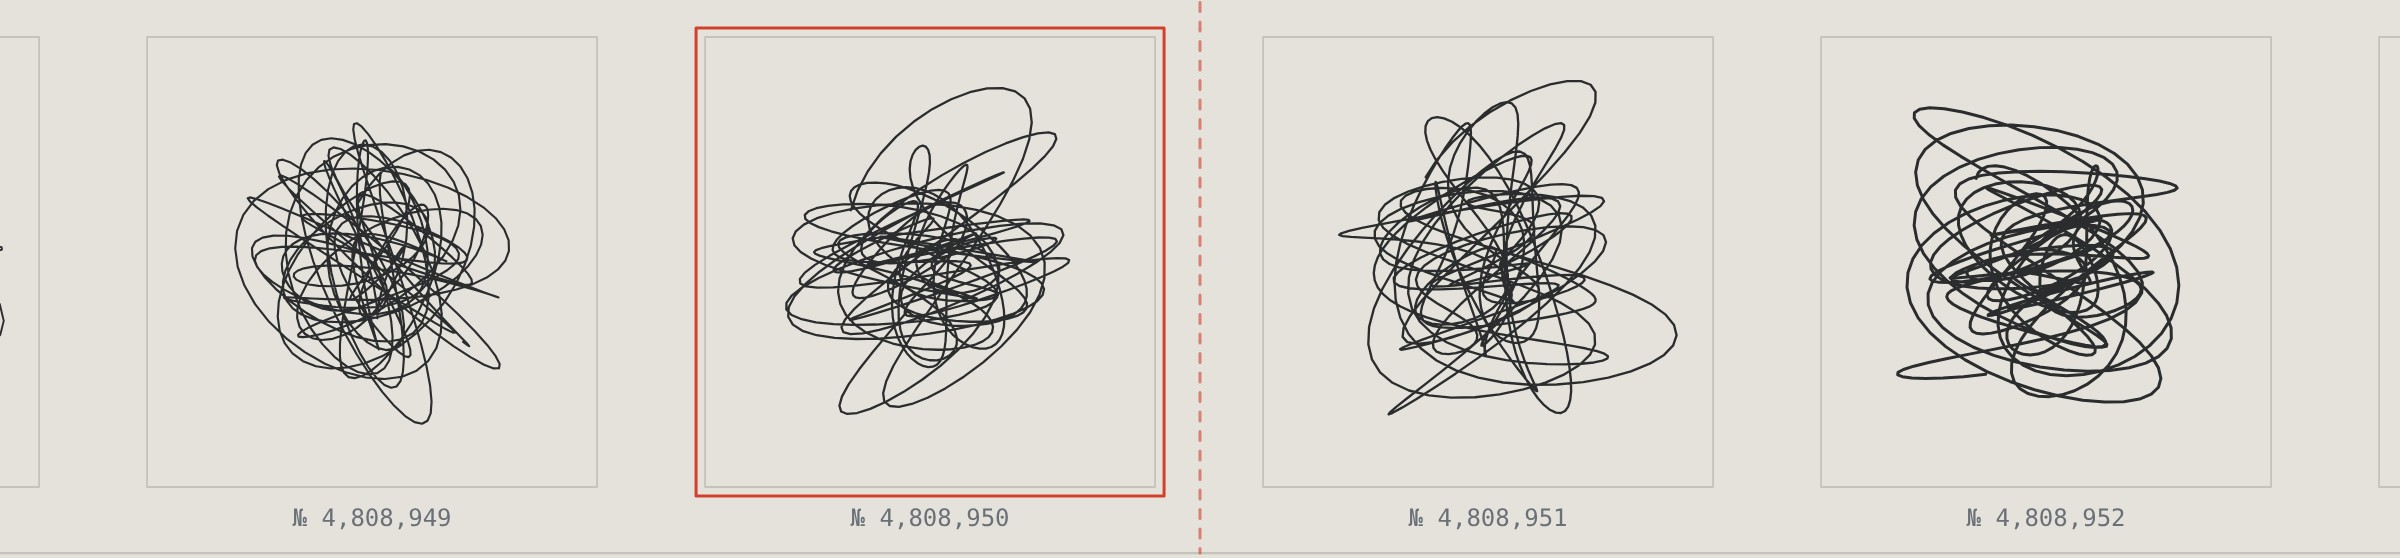
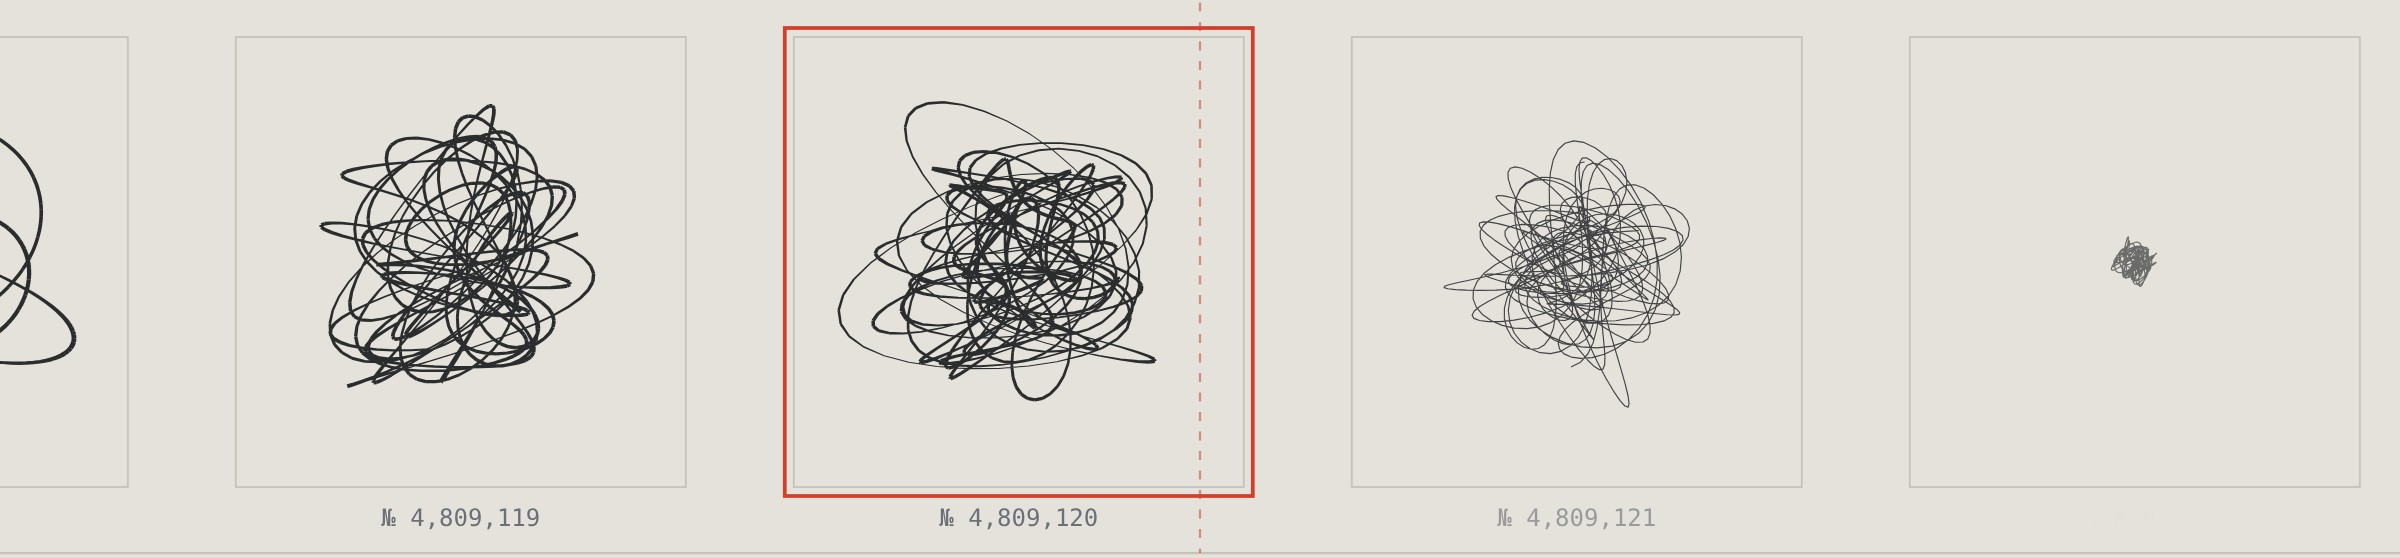
Port the future-diffusion visualization into the hero embed
Rebuilt static/meta-matic-hero.html on the live engine: generator v2 (density-
varied works), the diffusion drawWork (future works grow from a point and
resolve low→high frequency), the variable-weight ink ribbon, and the belt's
lock/snap — the ink sets and the red ring snaps solid exactly as each work
crosses "now". This brings the piece's signature future visualization into the
autoplaying hero (the interactive inspect/sign stays in the live version).
Regenerated the case poster and belt stills from the new engine so they match.

Claude-Session: https://claude.ai/code/session_01Nw7qtoZF13e3psvrqjndaA

diff --git a/static/meta-matic-hero.html b/static/meta-matic-hero.html
@@ -6,31 +6,34 @@
     <title>Méta-Matic ∞ — hero</title>
     <meta
       name="description"
-      content="A self-contained, text-free hero for Méta-Matic ∞: a conveyor belt of machine-drawn works morphing through a latent field, wall-clock synced with the live piece. Fixed 16:10 frame that scales like a video."
+      content="A self-contained, text-free hero for Méta-Matic ∞: a conveyor belt of machine-drawn works, the future to the right dissolving out of noise and locking solid at the signing point. Wall-clock synced with the live piece. Fixed 16:10 frame that scales like a video."
     />
     <!--
   Méta-Matic ∞ — standalone hero animation.
 
   ONE file, ZERO dependencies, no external requests — true to the piece itself
-  (a single static index.html, Canvas, no framework). Drop it in a portfolio
-  hero band or <iframe> it.
+  (a single static index.html, Canvas, no framework). <iframe> it as a hero.
 
-  VIDEO-LIKE, NOT RESPONSIVE: everything is drawn into a fixed 1600×1000 logical
-  frame, so it scales UNIFORMLY (letterboxed) to any container — it never
-  reflows. Behaves like a <video>, not a responsive layout.
+  VIDEO-LIKE, NOT RESPONSIVE: drawn into a fixed 1600×1000 logical frame, so it
+  scales UNIFORMLY (letterboxed) to any container. Behaves like a <video>.
 
-  What it shows (the piece's CORE, wordlessly): the conveyor belt of works, each
-  a stack of epicycles fetched from a continuous latent field, morphing into its
-  neighbours as the belt scrolls. Driven by the wall clock (rate 1 work / 4 s,
-  since 2026), so it is literally in lockstep with the live machine — the same
-  serial numbers, the same works, for everyone, right now.
+  What it shows (the piece's CORE, wordlessly, and now with its signature
+  future visualization): the conveyor belt of works, wall-clock driven (rate
+  1 work / 4 s, since 2026) so it is in lockstep with the live machine — same
+  serials, same works. To the RIGHT of the signing point sits the FUTURE: works
+  grow from a point and resolve out of their own spectrum (low → high frequency,
+  band-limited coarse → fine), then LOCK — the ink sets from a uniform stroke to
+  a full variable-weight ribbon and the red ring SNAPS solid — exactly as each
+  work crosses "now". This is the same diffusion + lock the live piece uses,
+  ported verbatim; the interactive inspect/sign lives in the live version (open
+  it from the lightbox).
 
   Modes (via URL hash, combinable e.g. #light,label):
     • default   — text-free, follows the OS light/dark preference
     • #light / #dark — hard-lock the palette
-    • #label    — reveal a minimal mono caption (serial + originals-stay-zero)
+    • #label    — reveal a minimal mono caption
 
-  The host page can drive theme + reduced-motion at runtime via
+  Host can drive theme + reduced-motion at runtime via
   postMessage({ theme: 'light'|'dark'|'auto', reduce: bool }).
   prefers-reduced-motion (or a posted reduce) freezes to a single still frame.
 -->
@@ -55,7 +58,6 @@
         display: grid; place-items: center; overflow: hidden;
         font-family: ui-monospace, "SF Mono", Menlo, Consolas, monospace;
       }
-      /* fixed 16:10 stage, scales uniformly to the container */
       .stage { position: relative; width: 100%; aspect-ratio: 16 / 10; max-height: 100%; }
       canvas { position: absolute; inset: 0; width: 100%; height: 100%; display: block; }
     </style>
@@ -67,7 +69,7 @@
         "use strict";
         const TAU = Math.PI * 2;
 
-        /* ---- deterministic smooth noise (Math.imul — same engine as the piece) ---- */
+        /* ---- deterministic smooth noise (Math.imul — the piece's engine) ---- */
         function h1(i){let n=Math.imul(i|0,374761393)+2654435761;n=Math.imul(n^(n>>>13),1274126177);n=(n^(n>>>16))>>>0;return n/4294967296;}
         function h2(i,j){let n=Math.imul(i|0,374761393)+Math.imul(j|0,668265263)+2246822519;n=Math.imul(n^(n>>>13),1274126177);n=(n^(n>>>16))>>>0;return n/4294967296;}
         const sm = t => t*t*(3-2*t);
@@ -79,25 +81,83 @@
         const WALK = 0.135;
         const coordFor = g => ({ u: value1(g*WALK+40.5), v: value1(g*WALK+913.7) });
 
-        const N = 5;
-        function genesFor(u,v){
-          const S=6.0, g=k=>value2(u*S+k*3.13, v*S+k*5.71);
-          const harm=[]; let wsum=0;
-          for(let i=0;i<N;i++){const w=0.30+0.70*g(i+1);wsum+=w;
-            harm.push({w,fx:0.5+5.5*g(i+21),fy:0.5+5.5*g(i+47),px:g(i+71)*TAU,py:g(i+97)*TAU});}
+        /* ---- genes (latent space), generator v2 — matches the live machine ---- */
+        const GEN = 2, N = 5;
+        function genesV2(u, v) {
+          const S = 6.0, g = k => value2(u*S+k*3.13, v*S+k*5.71);
+          const density = Math.min(1, Math.max(0, 0.5 + (g(300)-0.5)*1.8));
+          const spread = 1.8 + 4.0*density, taper = 0.50 + 0.50*density;
+          const harm = []; let wsum = 0;
+          for(let i=0;i<N;i++){const w=(0.30+0.70*g(i+1))*Math.pow(taper,i); wsum+=w;
+            harm.push({w,fx:0.5+spread*g(i+21),fy:0.5+spread*g(i+47),px:g(i+71)*TAU,py:g(i+97)*TAU});}
           for(const hh of harm) hh.w/=wsum;
-          return {harm,rot:g(200)*TAU,cycles:5+7*g(213),scale:0.82+0.24*g(229),lw:0.8+0.9*g(241)};
+          return {harm,rot:g(200)*TAU,cycles:2.6+9.4*density,scale:0.82+0.24*g(229),lw:0.8+0.9*g(241)};
         }
-        function drawWork(ctx,cx,cy,size,u,v,color,lwMul){
-          const G=genesFor(u,v), amp=size*0.44*G.scale, T=TAU*G.cycles, steps=900;
-          const cr=Math.cos(G.rot), sr=Math.sin(G.rot);
-          ctx.beginPath();
-          for(let s=0;s<=steps;s++){const t=(s/steps)*T; let X=0,Y=0;
-            for(const h of G.harm){X+=h.w*Math.cos(h.fx*t+h.px);Y+=h.w*Math.sin(h.fy*t+h.py);}
-            const rx=(X*cr-Y*sr)*amp, ry=(X*sr+Y*cr)*amp;
-            if(s===0)ctx.moveTo(cx+rx,cy+ry);else ctx.lineTo(cx+rx,cy+ry);}
-          ctx.strokeStyle=color; ctx.lineWidth=G.lw*(lwMul||1);
-          ctx.lineJoin="round"; ctx.lineCap="round"; ctx.globalAlpha=0.92; ctx.stroke(); ctx.globalAlpha=1;
+        const genesFor = (u,v) => genesV2(u,v);
+
+        /* ---- draw one work — nu (0..1) = diffusion level (future = unresolved),
+           lockT (0..1) = ink set: uniform stroke -> full variable-weight ribbon. ---- */
+        function drawWork(ctx, cx, cy, size, u, v, color, lwMul, nu, lockT) {
+          nu = nu || 0;
+          const G = genesFor(u, v);
+          const amp = size*0.44*G.scale, T = TAU*G.cycles;
+          const ampF = nu > 0.01 ? amp*Math.pow(1-nu, 1.15) : amp;
+          if (nu > 0.01 && ampF < 7) {           // a far-future work IS a point
+            ctx.fillStyle = color; ctx.globalAlpha = 0.55 + 0.37*(1-nu);
+            ctx.beginPath(); ctx.arc(cx, cy, Math.max(1.1, ampF*0.55), 0, TAU); ctx.fill();
+            ctx.globalAlpha = 1; return;
+          }
+          const steps = Math.round(Math.max(560, Math.min(1200, 360 + G.cycles*70)));
+          const cr = Math.cos(G.rot), sr = Math.sin(G.rot);
+          ctx.save();
+          ctx.beginPath(); ctx.rect(cx-size/2, cy-size/2, size, size); ctx.clip();
+          // reveal harmonics LOW -> HIGH frequency as the work resolves (spectrum sharpening)
+          let gate = null, gnorm = 1;
+          if (nu > 0.01) {
+            const resolve = 1 - nu;
+            const order = G.harm.map((h,i)=>({i,fr:Math.max(Math.abs(h.fx),Math.abs(h.fy))})).sort((a,b)=>a.fr-b.fr);
+            gate = new Array(N).fill(0);
+            order.forEach((o,rank)=>{
+              if (rank <= 1) { gate[o.i] = 1; return; }
+              const c = 0.45 + (rank-2)*0.18;
+              let g = (resolve-c)/0.16; g = g<0?0:g>1?1:g;
+              gate[o.i] = g*g*(3-2*g);
+            });
+            let ws = 0; for (let i=0;i<N;i++) ws += G.harm[i].w*gate[i];
+            gnorm = 1/Math.max(0.4, ws);
+          }
+          const bx = new Float64Array(steps+1), by = new Float64Array(steps+1);
+          for (let s=0;s<=steps;s++){
+            const t = (s/steps)*T; let X=0,Y=0;
+            for (let hi=0;hi<G.harm.length;hi++){const h=G.harm[hi], w=gate?h.w*gate[hi]:h.w;
+              X += w*Math.cos(h.fx*t+h.px); Y += w*Math.sin(h.fy*t+h.py);}
+            X *= gnorm; Y *= gnorm;
+            bx[s] = cx + (X*cr - Y*sr)*ampF; by[s] = cy + (X*sr + Y*cr)*ampF;
+          }
+          // per-point ink weight from pen speed (thin fast, heavy slow) -> filled ribbon
+          const base = G.lw*(lwMul||1);
+          const sp = new Float64Array(steps+1); let mean = 0;
+          for (let s=1;s<=steps;s++){ sp[s]=Math.hypot(bx[s]-bx[s-1],by[s]-by[s-1]); mean+=sp[s]; }
+          sp[0]=sp[1]; mean = mean/steps || 1;
+          const hw = new Float64Array(steps+1);
+          for (let s=0;s<=steps;s++){ const m=Math.max(0,Math.min(1,1.35-0.7*(sp[s]/mean))); hw[s]=Math.max(0.28,base*(0.45+1.10*m))/2; }
+          ctx.fillStyle = color; ctx.strokeStyle = color;
+          const alpha = 0.55 + 0.37*(1-nu);
+          const ink = lockT != null ? lockT : 1;
+          if (ink < 0.02) {                       // pre-lock: cheap uniform stroke (morph runs smooth)
+            ctx.globalAlpha = alpha; ctx.lineJoin="round"; ctx.lineCap="round"; ctx.lineWidth = base*0.5;
+            ctx.beginPath(); ctx.moveTo(bx[0],by[0]); for(let s=1;s<=steps;s++) ctx.lineTo(bx[s],by[s]); ctx.stroke();
+          } else {                                // ink sets in: variable-weight ribbon
+            const uni = base*0.25; ctx.beginPath();
+            for (let s=0;s<steps;s++){
+              let dx=bx[s+1]-bx[s],dy=by[s+1]-by[s]; const L=Math.hypot(dx,dy)||1e-6; dx/=L;dy/=L;
+              const nx=-dy,ny=dx, wa=uni+(hw[s]-uni)*ink, wb=uni+(hw[s+1]-uni)*ink;
+              ctx.moveTo(bx[s]+nx*wa,by[s]+ny*wa); ctx.lineTo(bx[s+1]+nx*wb,by[s+1]+ny*wb);
+              ctx.lineTo(bx[s+1]-nx*wb,by[s+1]-ny*wb); ctx.lineTo(bx[s]-nx*wa,by[s]-ny*wa);
+            }
+            ctx.globalAlpha = alpha; ctx.fill();
+          }
+          ctx.globalAlpha = 1; ctx.restore();
         }
 
         /* ---- wall-clock: in lockstep with the live machine ---- */
@@ -108,60 +168,79 @@
         const WORLD_W = 1600, WORLD_H = 1000, STRIDE = 372, PLATE = 300;
         const canvas = document.getElementById("c"), ctx = canvas.getContext("2d");
         const css = v => getComputedStyle(document.documentElement).getPropertyValue(v).trim();
-        let dpr = 1;
         function resize(){
-          dpr = Math.min(window.devicePixelRatio||1, 2);
-          canvas.width = Math.round(WORLD_W*dpr); canvas.height = Math.round(WORLD_H*dpr);
-          ctx.setTransform(dpr,0,0,dpr,0,0);
+          const d = Math.min(window.devicePixelRatio||1, 2);
+          canvas.width = Math.round(WORLD_W*d); canvas.height = Math.round(WORLD_H*d);
+          ctx.setTransform(d,0,0,d,0,0);
         }
         window.addEventListener("resize", resize);
-
         const showLabel = /(^|[#,])label($|,)/.test(location.hash);
+        const ss = x => { x = x<0?0:x>1?1:x; return x*x*(3-2*x); };
 
         function render(){
           const paper=css("--paper"), ink=css("--ink"), muted=css("--muted"), line=css("--line"), signal=css("--signal");
           ctx.fillStyle = paper; ctx.fillRect(0,0,WORLD_W,WORLD_H);
 
-          const cy = WORLD_H*0.46;
-          const baseF = machineSerial(), base = Math.floor(baseF), frac = baseF - base;
-          const cxCenter = WORLD_W/2;
+          const cy = WORLD_H*0.46, half2 = PLATE/2, cxCenter = WORLD_W/2;
+          const liveHeadF = machineSerial(), base = Math.floor(liveHeadF), frac = liveHeadF - base;
 
           // conveyor rail + moving perforations
-          const railY = cy + PLATE/2 + 44;
+          const railY = cy + half2 + 44;
           ctx.strokeStyle = line; ctx.lineWidth = 1.5;
           ctx.beginPath(); ctx.moveTo(0,railY); ctx.lineTo(WORLD_W,railY); ctx.stroke();
-          const perf = (baseF*STRIDE) % 40;
-          ctx.fillStyle = muted; ctx.globalAlpha = 0.5;
-          for(let x=-40;x<WORLD_W+40;x+=40) ctx.fillRect(x-perf,railY+9,13,3);
+          const perf = (liveHeadF*STRIDE) % 40; ctx.fillStyle = muted; ctx.globalAlpha = 0.5;
+          for(let x=-40;x<WORLD_W+40;x+=40) ctx.fillRect(x-perf, railY+9, 13, 3);
           ctx.globalAlpha = 1;
 
-          // plates
-          const half = Math.ceil((WORLD_W/2)/STRIDE)+1;
-          let bestD = Infinity, bestSerial = base;
-          ctx.font = "16px ui-monospace, Menlo, monospace"; ctx.textAlign = "center";
+          // fixed signing-point hairline + marker at centre (= "now")
+          ctx.save(); ctx.setLineDash([6,7]); ctx.globalAlpha = 0.55; ctx.strokeStyle = signal; ctx.lineWidth = 1.5;
+          ctx.beginPath(); ctx.moveTo(cxCenter, 40); ctx.lineTo(cxCenter, railY); ctx.stroke(); ctx.restore();
+          ctx.fillStyle = signal; ctx.beginPath();
+          ctx.moveTo(cxCenter-9,44); ctx.lineTo(cxCenter+9,44); ctx.lineTo(cxCenter,58); ctx.closePath(); ctx.fill();
+
+          const NHZ = 1.15, SPAN = 3, LOCKPX = 22, W2 = STRIDE/2;
+          const half = Math.ceil((WORLD_W/2)/STRIDE) + 1;
+          ctx.font = "16px ui-monospace, Menlo, monospace";
           for(let i=-half;i<=half;i++){
-            const serial = base+i;
+            const serial = base + i;
             const cx = cxCenter + i*STRIDE - frac*STRIDE;
             if(cx < -STRIDE || cx > WORLD_W+STRIDE) continue;
-            const {u,v} = coordFor(serial), h2p = PLATE/2;
-            ctx.strokeStyle = line; ctx.lineWidth = 1.25;
-            ctx.strokeRect(cx-h2p, cy-h2p, PLATE, PLATE);
-            drawWork(ctx, cx, cy, PLATE, u, v, ink, 1.4);
-            ctx.fillStyle = muted;
-            ctx.fillText("№ " + serial.toLocaleString("en-US"), cx, cy + h2p + 26);
-            const d = Math.abs(cx - cxCenter);
-            if(d < bestD){ bestD = d; bestSerial = serial; }
-          }
-          ctx.textAlign = "left";
+            const { u, v } = coordFor(serial);
+            const f = (serial - liveHeadF)/SPAN;               // 0 at now, >0 future, <0 past
+            let nu = 0;
+            if(f > 0) nu = 1 - ss(Math.pow(Math.max(0,(NHZ - f)/NHZ), 2.2));  // future: resolve full -> at now
+            const headDist = (serial - liveHeadF)*STRIDE;
+            const lockT = ss(Math.max(0, Math.min(1, (LOCKPX - headDist)/LOCKPX)));
 
-          // signing point: red highlight on the centred plate + hairline + marker
-          const cxC = cxCenter + (bestSerial-base)*STRIDE - frac*STRIDE, h2p = PLATE/2;
-          ctx.strokeStyle = signal; ctx.lineWidth = 2;
-          ctx.strokeRect(cxC-h2p-6, cy-h2p-6, PLATE+12, PLATE+12);
-          ctx.save(); ctx.setLineDash([6,7]); ctx.globalAlpha = 0.6;
-          ctx.beginPath(); ctx.moveTo(cxCenter, 40); ctx.lineTo(cxCenter, railY); ctx.stroke(); ctx.restore();
-          ctx.fillStyle = signal; ctx.textAlign = "center";
-          ctx.beginPath(); ctx.moveTo(cxCenter-9,44); ctx.lineTo(cxCenter+9,44); ctx.lineTo(cxCenter,58); ctx.closePath(); ctx.fill();
+            ctx.strokeStyle = line; ctx.lineWidth = 1.25;
+            ctx.strokeRect(cx-half2, cy-half2, PLATE, PLATE);
+
+            if(f <= 0) drawWork(ctx, cx, cy, PLATE, u, v, ink, 1.4, 0, 1);      // past & now: resolved ribbon
+            else       drawWork(ctx, cx, cy, PLATE, u, v, ink, 1.4, nu, lockT); // future: diffusing
+
+            // serial label — fades in as the work resolves
+            ctx.fillStyle = muted; ctx.textAlign = "center";
+            ctx.globalAlpha = Math.max(0, 1 - 1.15*nu);
+            ctx.fillText("№ " + serial.toLocaleString("en-US"), cx, cy + half2 + 26);
+            ctx.globalAlpha = 1;
+
+            // signing ring at the head: faint hint on approach -> SNAP solid with a click pop
+            if(Math.abs(headDist) < W2){
+              const prox = 1 - Math.abs(headDist)/W2;
+              if(serial <= Math.round(liveHeadF)){
+                const snap = lockT, pop = ss((prox - 0.93)/0.07);
+                const a = headDist > 0 ? Math.max(0.2*prox, snap) : (prox > 0.3 ? 1 : prox/0.3);
+                const grow = pop*1.6;
+                ctx.strokeStyle = signal; ctx.globalAlpha = a; ctx.lineWidth = 1.6 + 0.9*snap + 1.2*pop;
+                ctx.strokeRect(cx-half2-6-grow, cy-half2-6-grow, PLATE+12+2*grow, PLATE+12+2*grow);
+                ctx.globalAlpha = 1;
+              } else {
+                ctx.strokeStyle = muted; ctx.globalAlpha = 0.55*prox; ctx.lineWidth = 1.25;
+                ctx.setLineDash([5,5]); ctx.strokeRect(cx-half2-6, cy-half2-6, PLATE+12, PLATE+12);
+                ctx.setLineDash([]); ctx.globalAlpha = 1;
+              }
+            }
+          }
           ctx.textAlign = "left";
 
           if(showLabel){
@@ -170,14 +249,14 @@
             ctx.fillText("MÉTA-MATIC ∞", pad, WORLD_H - 62);
             ctx.fillStyle = muted; ctx.font = "18px ui-monospace, Menlo, monospace";
             ctx.fillText(base.toLocaleString("en-US") + " works produced · 0 originals", pad, WORLD_H - 34);
-            ctx.fillStyle = muted; ctx.textAlign = "right";
+            ctx.textAlign = "right";
             ctx.fillText("infinitely many · never anything new", WORLD_W - pad, WORLD_H - 34);
             ctx.textAlign = "left";
           }
         }
 
         /* ---- theme + reduced motion (hash, OS, host postMessage) ---- */
-        let forced = null; // 'light' | 'dark' | null(auto)
+        let forced = null;
         if(/(^|[#,])light($|,)/.test(location.hash)) forced = "light";
         if(/(^|[#,])dark($|,)/.test(location.hash)) forced = "dark";
         const osDark = () => window.matchMedia && matchMedia("(prefers-color-scheme: dark)").matches;
@@ -189,14 +268,10 @@
         let reduced = window.matchMedia && matchMedia("(prefers-reduced-motion: reduce)").matches;
         let raf = 0;
         function loop(){ render(); raf = requestAnimationFrame(loop); }
-        function run(){
-          cancelAnimationFrame(raf);
-          applyTheme();
-          if(reduced) render(); else loop();
-        }
+        function run(){ cancelAnimationFrame(raf); applyTheme(); if(reduced) render(); else loop(); }
         window.addEventListener("message", e => {
           const d = e.data || {};
-          if(typeof d.theme === "string"){ forced = d.theme === "auto" ? null : (d.theme === "dark" ? "dark" : "light"); }
+          if(typeof d.theme === "string") forced = d.theme === "auto" ? null : (d.theme === "dark" ? "dark" : "light");
           if(typeof d.reduce === "boolean") reduced = d.reduce;
           run();
         });
